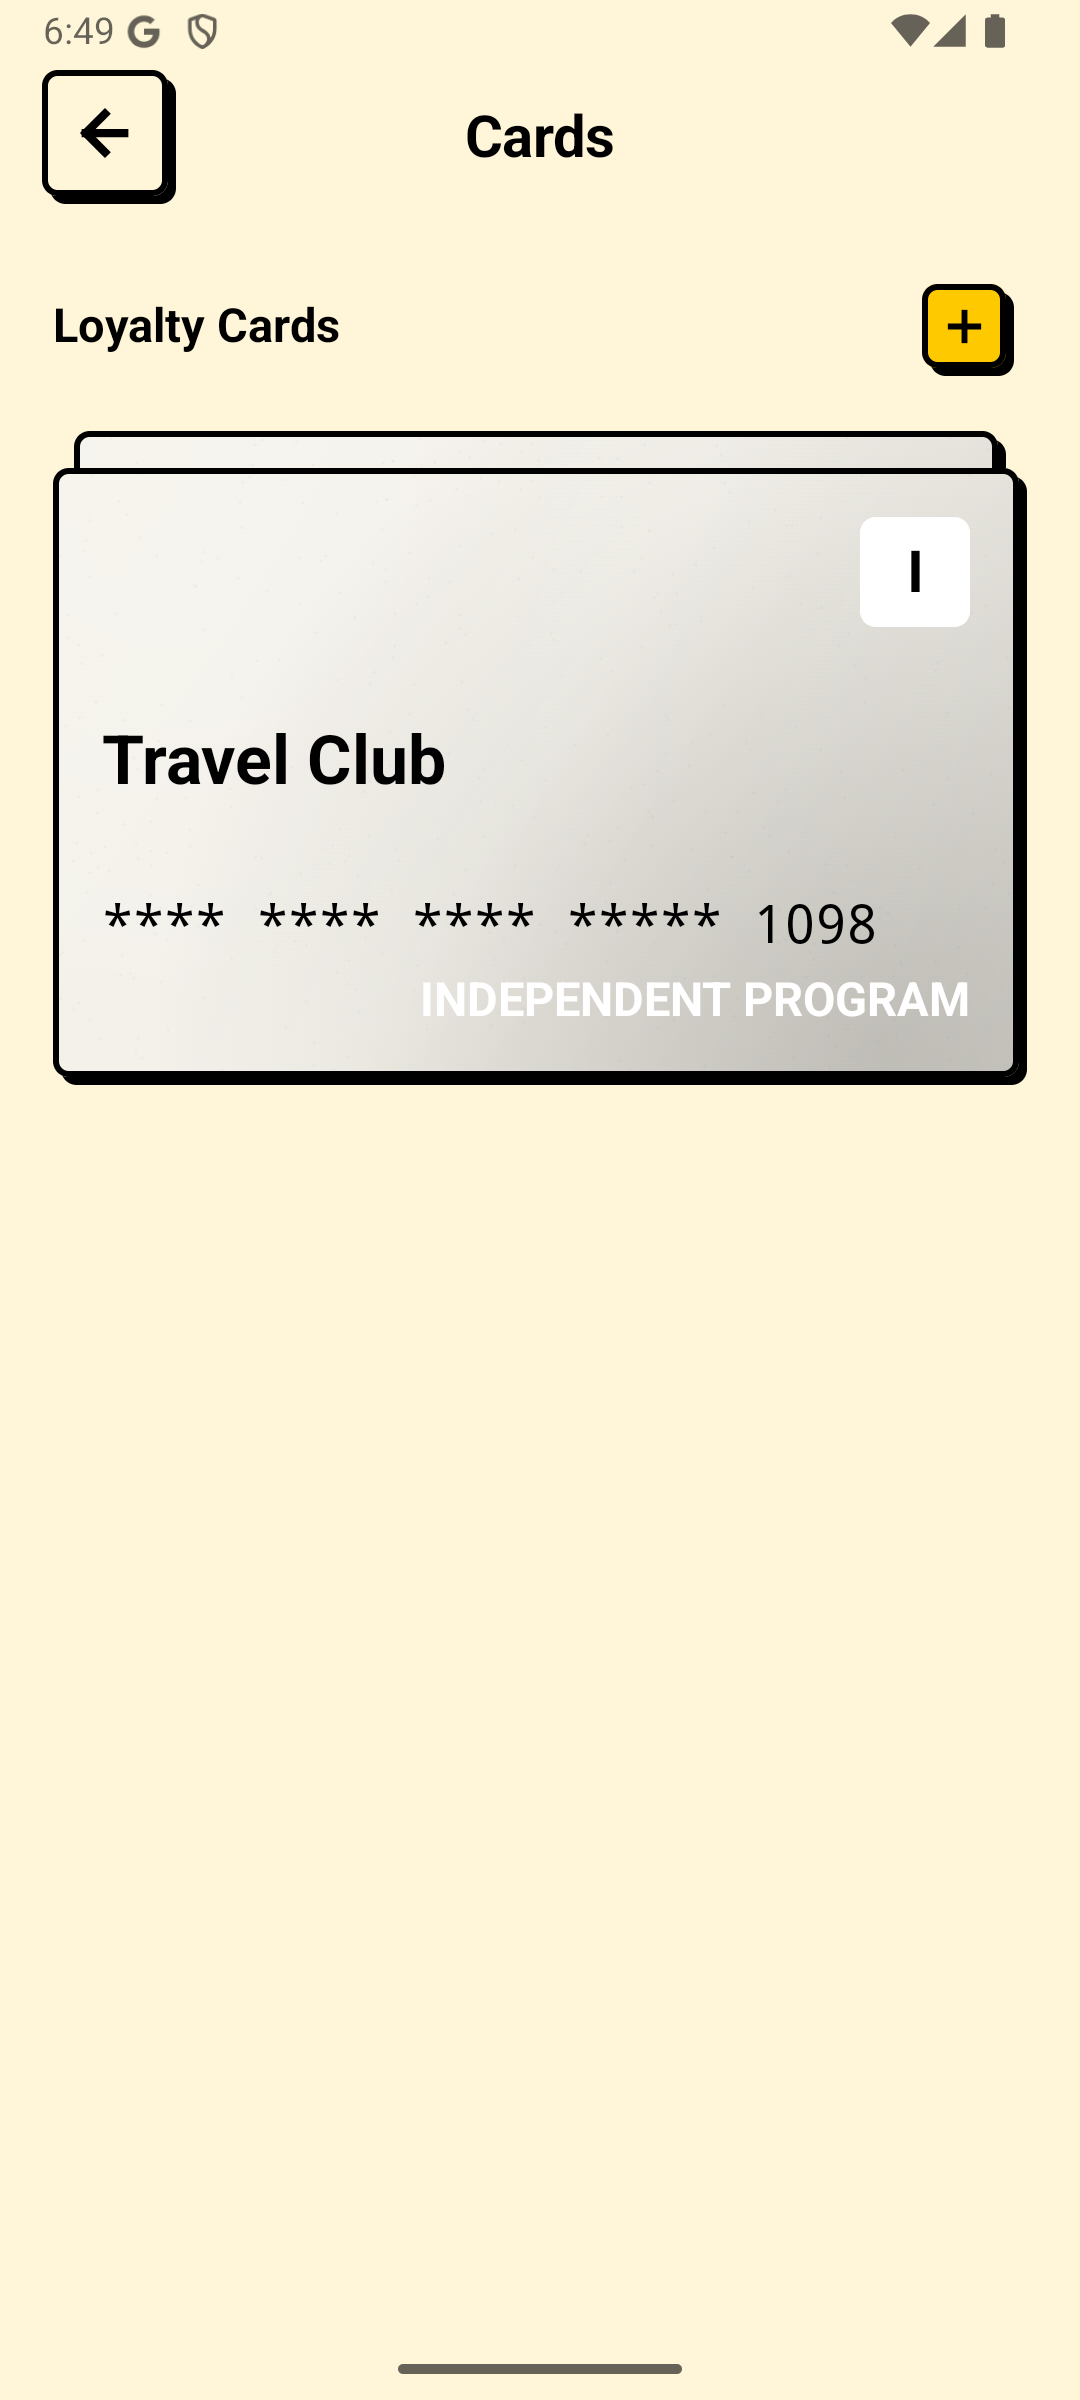
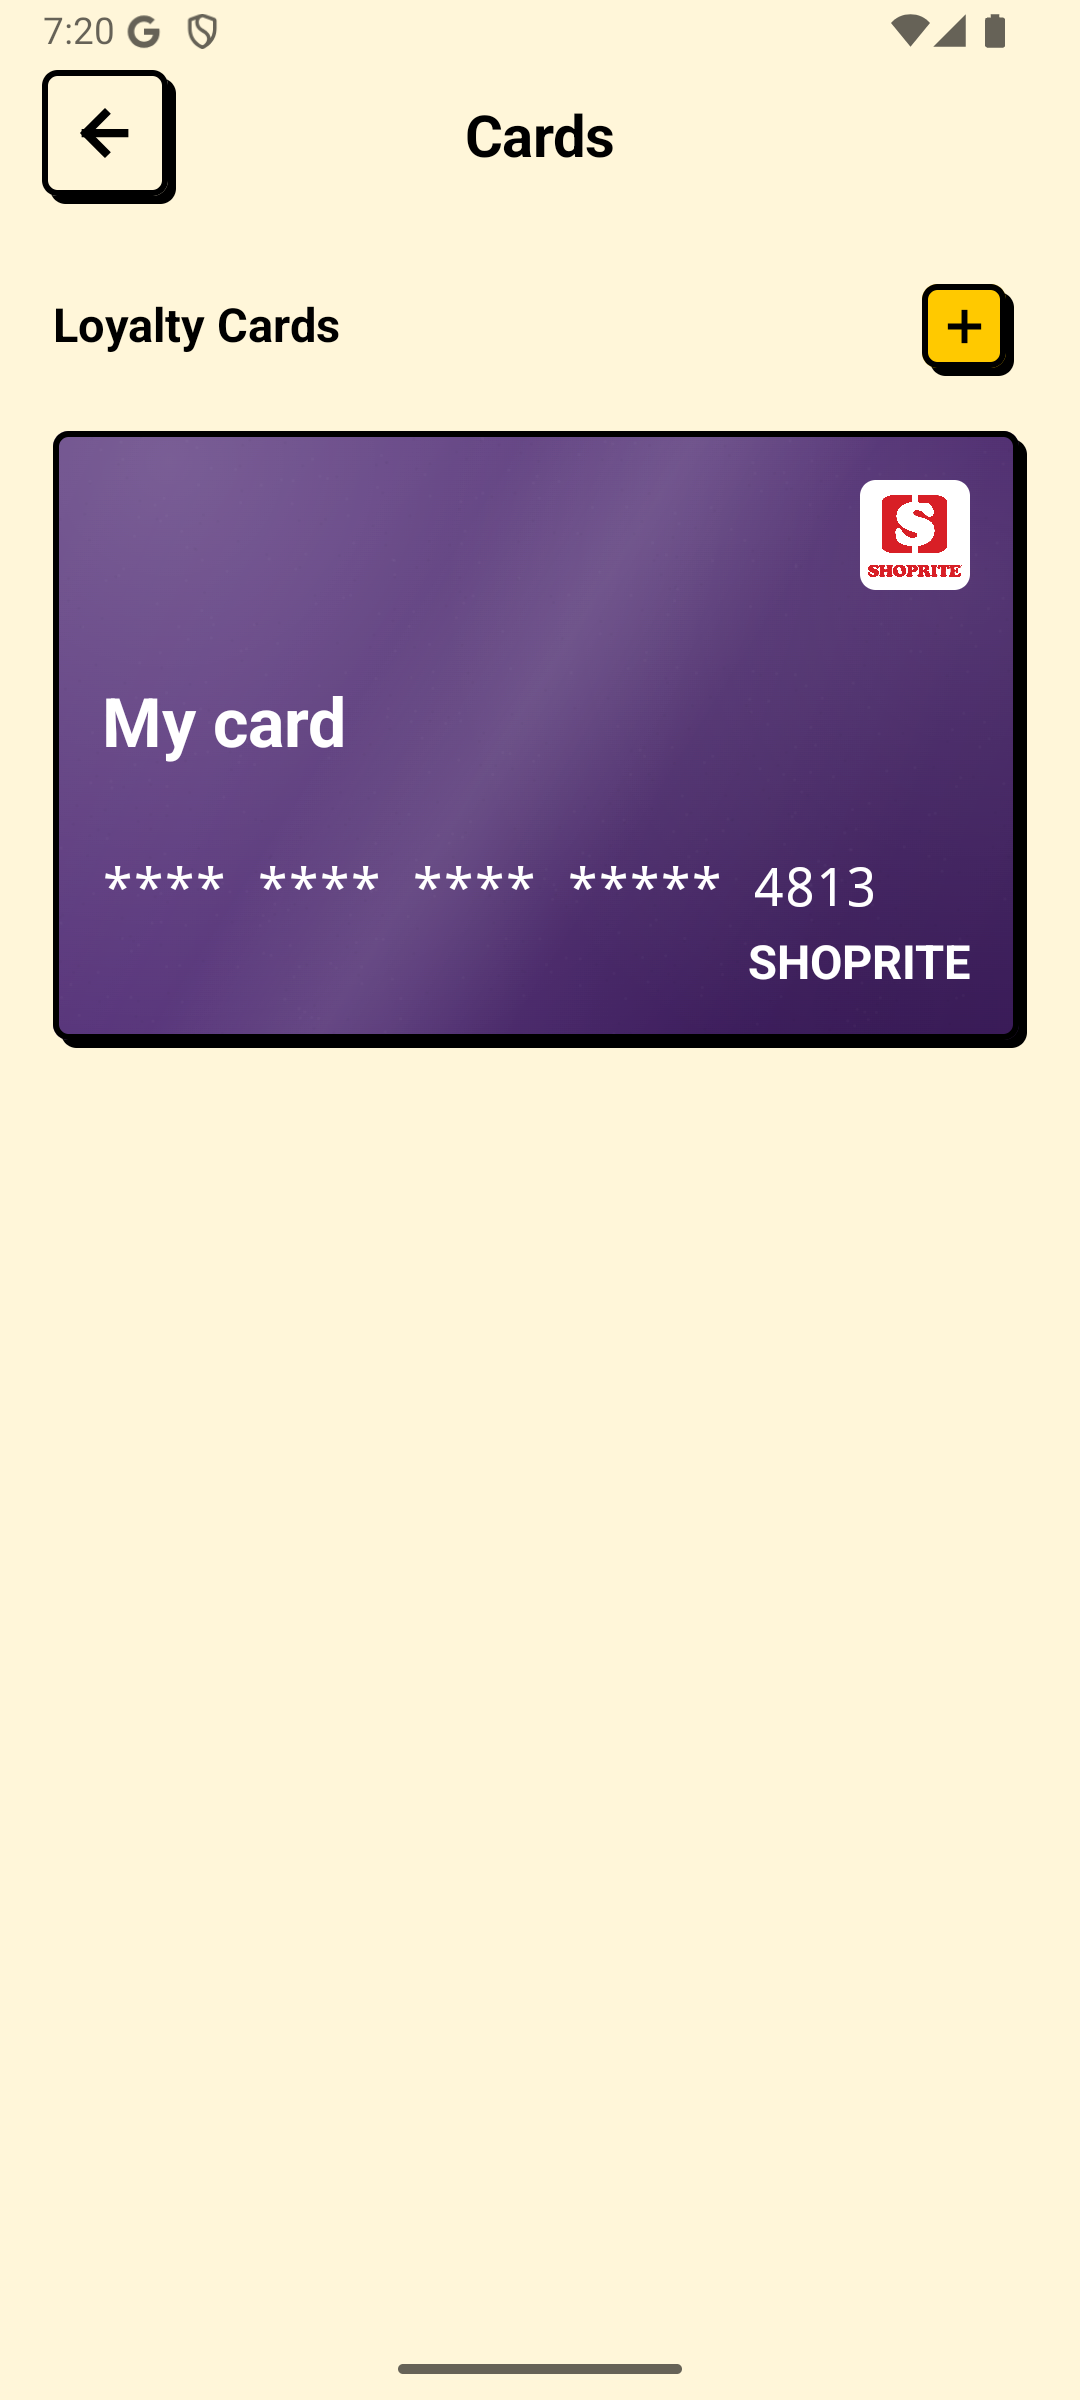
Present local QA account screenshots and clarify deployed APK endpoints

Changed region(s): [[0.0306, 0.1562, 0.9472, 0.4688], [0.0306, 0.0, 0.0917, 0.0312]]

diff --git a/README.md b/README.md
@@ -20,13 +20,15 @@
 
 <p align="center">
   <img src="assets/screenshots/sign-in.png" width="220" alt="IjubaPay sign-in screen">
-  <img src="assets/screenshots/home.png" width="220" alt="IjubaPay Home with synthetic preview loyalty cards">
+  <img src="assets/screenshots/home.png" width="220" alt="IjubaPay Home during QA with a testing account">
   <img src="assets/screenshots/cards.png" width="220" alt="Saved loyalty cards in IjubaPay">
   <img src="assets/screenshots/wallets.png" width="220" alt="IjubaPay Wallet screen and wallet linking entry point">
 </p>
 
-Screenshots show the actual signed preview with synthetic test data. No real
-account details or completed payments are represented.
+Screenshots show the sign-in screen and authenticated UI during QA with a
+testing account on a local backend. The downloadable APK connects to the
+deployed AWS endpoints listed below. QA screenshots do not establish production
+payment readiness.
 Private card-entry and barcode screens retain their screenshot protections.
 
 ## What you can explore
